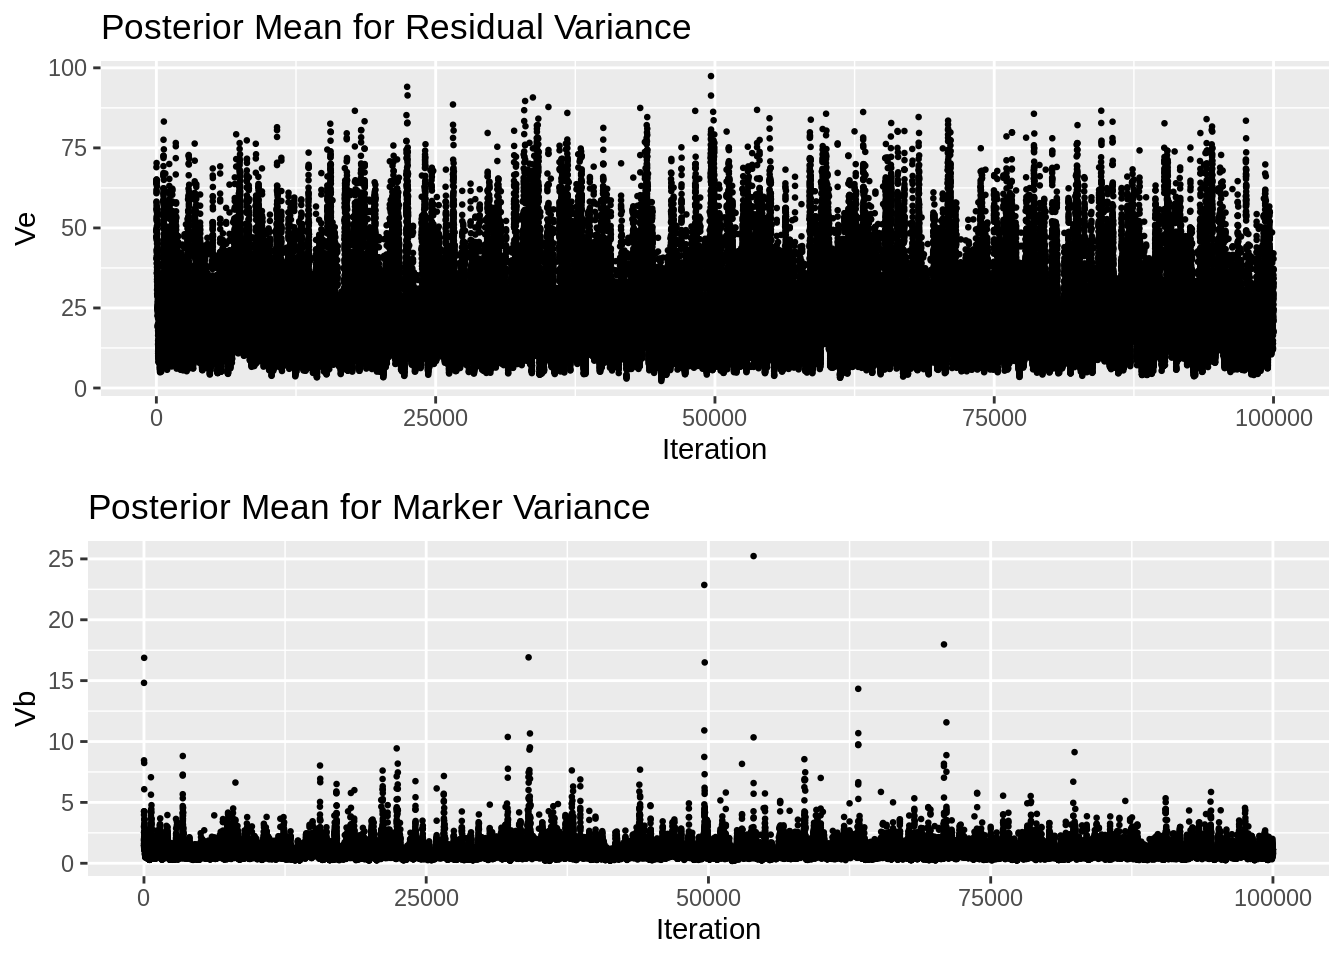
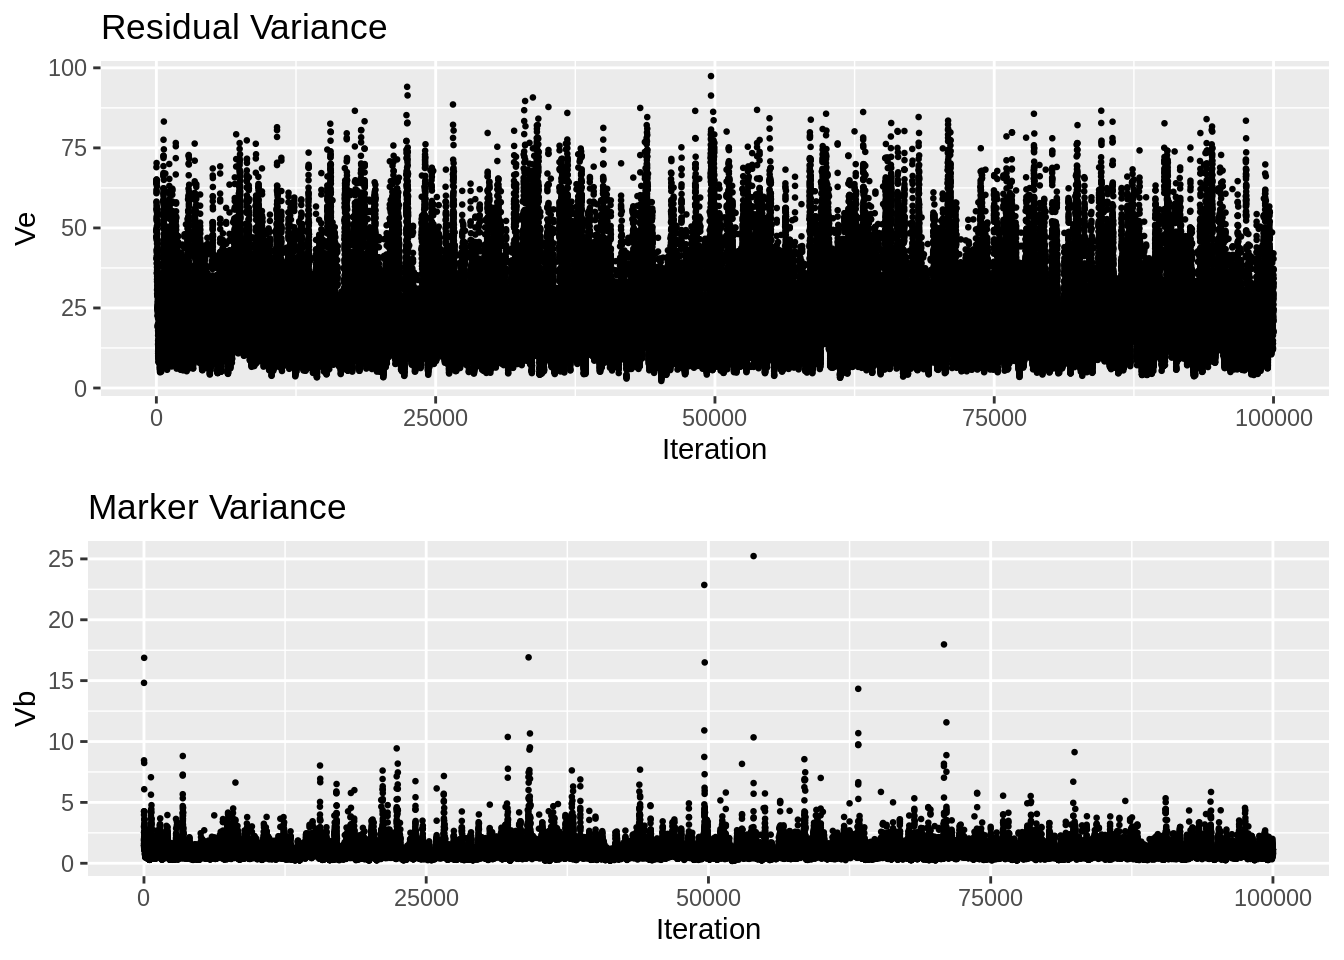
Build site.

Changed region(s): [[0.0625, 0.5, 0.4688, 0.5625], [0.0938, 0.0, 0.5, 0.0625]]

diff --git a/docs/trace.html b/docs/trace.html
@@ -529,15 +529,15 @@ project makes it easier to run your code on other machines.</p>
 <div class="panel panel-default">
 <div class="panel-heading">
 <p class="panel-title">
-<a data-toggle="collapse" data-parent="#workflowr-checks" href="#strongRepositoryversionstrongahrefhttpsgithubcomnklimkodgrpstarvetree31f0ca5efa6638ff22dc51f187d75678a9fab568targetblank31f0ca5a">
+<a data-toggle="collapse" data-parent="#workflowr-checks" href="#strongRepositoryversionstrongahrefhttpsgithubcomnklimkodgrpstarvetree911d91ddbbaa19d05f85aaef007a67f2ae9a0d0atargetblank911d91da">
 <span class="glyphicon glyphicon-ok text-success"
 aria-hidden="true"></span> <strong>Repository version:</strong>
-<a href="https://github.com/nklimko/dgrp-starve/tree/31f0ca5efa6638ff22dc51f187d75678a9fab568" target="_blank">31f0ca5</a>
+<a href="https://github.com/nklimko/dgrp-starve/tree/911d91ddbbaa19d05f85aaef007a67f2ae9a0d0a" target="_blank">911d91d</a>
 </a>
 </p>
 </div>
 <div
[2 lines of base64/hex data omitted]
 class="panel-collapse collapse">
 <div class="panel-body">
 <p>
@@ -547,7 +547,7 @@ reproducibility.
 </p>
 <p>
 The results in this page were generated with repository version
-<a href="https://github.com/nklimko/dgrp-starve/tree/31f0ca5efa6638ff22dc51f187d75678a9fab568" target="_blank">31f0ca5</a>.
+<a href="https://github.com/nklimko/dgrp-starve/tree/911d91ddbbaa19d05f85aaef007a67f2ae9a0d0a" target="_blank">911d91d</a>.
 See the <em>Past versions</em> tab to see a history of the changes made
 to the R Markdown and HTML files.
 </p>
@@ -665,6 +665,40 @@ Message
 Rmd
 </td>
 <td>
+<a href="https://github.com/nklimko/dgrp-starve/blob/911d91ddbbaa19d05f85aaef007a67f2ae9a0d0a/analysis/trace.Rmd" target="_blank">911d91d</a>
+</td>
+<td>
+nklimko
+</td>
+<td>
+2023-03-06
+</td>
+<td>
+wflow_publish("analysis/trace.Rmd")
+</td>
+</tr>
+<tr>
+<td>
+html
+</td>
+<td>
+<a href="https://rawcdn.githack.com/nklimko/dgrp-starve/40f8200aad219e1194e0fa2fd9075e095c318fbe/docs/trace.html" target="_blank">40f8200</a>
+</td>
+<td>
+nklimko
+</td>
+<td>
+2023-03-06
+</td>
+<td>
+Build site.
+</td>
+</tr>
+<tr>
+<td>
+Rmd
+</td>
+<td>
 <a href="https://github.com/nklimko/dgrp-starve/blob/31f0ca5efa6638ff22dc51f187d75678a9fab568/analysis/trace.Rmd" target="_blank">31f0ca5</a>
 </td>
 <td>
@@ -735,22 +769,22 @@ gg &lt;- vector(mode=&#39;list&#39;, length=4)
 gg[[1]] &lt;- ggplot(fitData, aes(x=iter, y=ves)) +
   geom_point(size=0.5) + 
   labs(x=&quot;Iteration&quot;, y=&quot;Ve&quot;) + 
-  ggtitle(&quot;Posterior Mean for Residual Variance&quot;)
+  ggtitle(&quot;Residual Variance&quot;)
 
 gg[[2]] &lt;- ggplot(fitData, aes(x=iter, y=vbs)) +
   geom_point(size=0.5) + 
   labs(x=&quot;Iteration&quot;, y=&quot;Vb&quot;) + 
-  ggtitle(&quot;Posterior Mean for Marker Variance&quot;)
+  ggtitle(&quot;Marker Variance&quot;)
 
 gg[[3]] &lt;- ggplot(fitData, aes(x=iter, y=vgs)) +
   geom_point(size=0.5) + 
   labs(x=&quot;Iteration&quot;, y=&quot;Vg&quot;) + 
-  ggtitle(&quot;Posterior Mean for Genomic Variance&quot;)
+  ggtitle(&quot;Genomic Variance&quot;)
 
 gg[[4]] &lt;- ggplot(fitData, aes(x=iter, y=ves)) +
   geom_point(size=0.5) + 
   labs(x=&quot;Iteration&quot;, y=&quot;h^2&quot;) + 
-  ggtitle(&quot;Posterior Mean for Narrow-sense Heritability&quot;)
+  ggtitle(&quot;Narrow-sense Heritability&quot;)
 
   return(gg) 
 }
@@ -762,17 +796,91 @@ gg[[4]] &lt;- ggplot(fitData, aes(x=iter, y=ves)) +
     plotM &lt;- plotCustomBayes(&quot;data/gbayes_100k-m.Rds&quot;)</code></pre>
 <div id="female-plots" class="section level3">
 <h3>Female Plots</h3>
-<pre class="{plot-female}"><code>
-    plot_grid(plotF[[1]],plotF[[2]], ncol=1)
-    plot_grid(plotF[[3]],plotF[[4]], ncol=1)
-</code></pre>
+<pre class="r"><code>    plot_grid(plotF[[1]],plotF[[2]], ncol=1)</code></pre>
+<p><img src="figure/trace.Rmd/plot-female-1.png" width="672" style="display: block; margin: auto;" /></p>
+<pre class="r"><code>    plot_grid(plotF[[3]],plotF[[4]], ncol=1)</code></pre>
+<p><img src="figure/trace.Rmd/plot-female-2.png" width="672" style="display: block; margin: auto;" /></p>
 </div>
 <div id="male-plots" class="section level3">
 <h3>Male Plots</h3>
 <pre class="r"><code>    plot_grid(plotM[[1]],plotM[[2]], ncol=1)</code></pre>
 <p><img src="figure/trace.Rmd/plot-male-1.png" width="672" style="display: block; margin: auto;" /></p>
+<p>
+<button type="button" class="btn btn-default btn-xs btn-workflowr btn-workflowr-fig" data-toggle="collapse" data-target="#fig-plot-male-1">
+Past versions of plot-male-1.png
+</button>
+</p>
+<div id="fig-plot-male-1" class="collapse">
+<div class="table-responsive">
+<table class="table table-condensed table-hover">
+<thead>
+<tr>
+<th>
+Version
+</th>
+<th>
+Author
+</th>
+<th>
+Date
+</th>
+</tr>
+</thead>
+<tbody>
+<tr>
+<td>
+<a href="https://github.com/nklimko/dgrp-starve/blob/40f8200aad219e1194e0fa2fd9075e095c318fbe/docs/figure/trace.Rmd/plot-male-1.png" target="_blank">40f8200</a>
+</td>
+<td>
+nklimko
+</td>
+<td>
+2023-03-06
+</td>
+</tr>
+</tbody>
+</table>
+</div>
+</div>
 <pre class="r"><code>    plot_grid(plotM[[3]],plotM[[4]], ncol=1)</code></pre>
 <p><img src="figure/trace.Rmd/plot-male-2.png" width="672" style="display: block; margin: auto;" /></p>
+<p>
+<button type="button" class="btn btn-default btn-xs btn-workflowr btn-workflowr-fig" data-toggle="collapse" data-target="#fig-plot-male-2">
+Past versions of plot-male-2.png
+</button>
+</p>
+<div id="fig-plot-male-2" class="collapse">
+<div class="table-responsive">
+<table class="table table-condensed table-hover">
+<thead>
+<tr>
+<th>
+Version
+</th>
+<th>
+Author
+</th>
+<th>
+Date
+</th>
+</tr>
+</thead>
+<tbody>
+<tr>
+<td>
+<a href="https://github.com/nklimko/dgrp-starve/blob/40f8200aad219e1194e0fa2fd9075e095c318fbe/docs/figure/trace.Rmd/plot-male-2.png" target="_blank">40f8200</a>
+</td>
+<td>
+nklimko
+</td>
+<td>
+2023-03-06
+</td>
+</tr>
+</tbody>
+</table>
+</div>
+</div>
 <br>
 <p>
 <button type="button" class="btn btn-default btn-workflowr btn-workflowr-sessioninfo" data-toggle="collapse" data-target="#workflowr-sessioninfo" style="display: block;">
